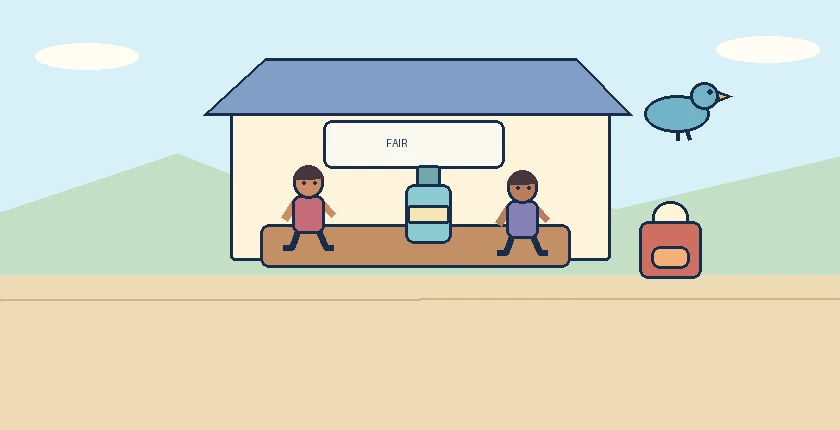
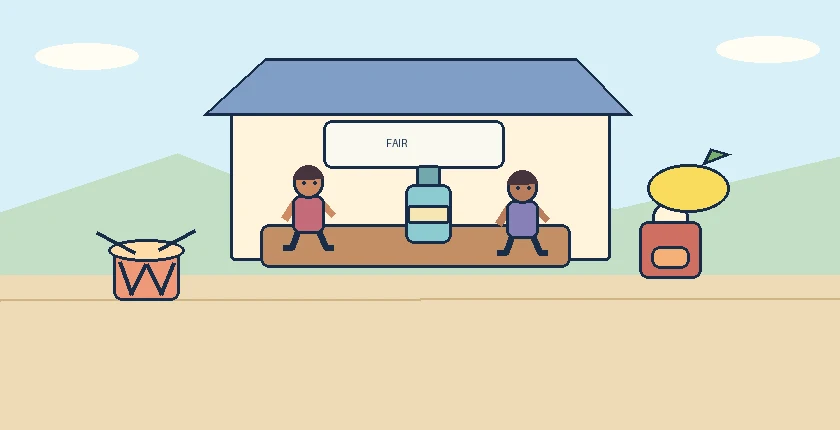
Add Movers Speaking picture tasks and classroom rubric

Changed region(s): [[0.1238, 0.5442, 0.2167, 0.7256], [0.7738, 0.3326, 0.8667, 0.514], [0.7429, 0.1814, 0.8667, 0.3326]]

diff --git a/tests/browser/movers-hosted.spec.ts b/tests/browser/movers-hosted.spec.ts
@@ -1,0 +1,128 @@
+import { expect, test, type Page } from "@playwright/test";
+import { readFile } from "node:fs/promises";
+
+test.use({ trace: "off" });
+
+async function signIn(page: Page, second = false) {
+  await page.goto("/login", { waitUntil: "networkidle" });
+  await page.getByLabel("Email").fill((second ? process.env.E2E_OTHER_EMAIL : process.env.E2E_TEACHER_EMAIL)!);
+  await page.getByLabel("Mật khẩu").fill((second ? process.env.E2E_OTHER_PASSWORD : process.env.E2E_TEACHER_PASSWORD)!);
+  await page.getByRole("button", { name: "Đăng nhập", exact: true }).click();
+  await expect(page.getByRole("heading", { name: "Hoạt động của tôi" })).toBeVisible();
+}
+
+const button = (page: Page, name: string) => page.getByRole("button", { name, exact: true });
+
+for (const paper of ["listening", "reading", "speaking"]) {
+  test(`QuizStudy Movers ${paper} saves assignment snapshots and results`, async ({ page, browser }, info) => {
+    test.skip(info.project.name !== "desktop" || !process.env.E2E_TEACHER_EMAIL || !process.env.E2E_OTHER_EMAIL, "QuizStudy QA teachers required");
+    test.setTimeout(150000);
+    await signIn(page);
+    await page.goto(`/samples/cambridge-movers/${paper}`);
+    await button(page, "Lưu vào thư viện giáo viên").click();
+    await expect(button(page, "Tạo link giao bài")).toBeVisible();
+    const source = page.url();
+    if (paper === "speaking") {
+      await page.getByText("Hướng dẫn Speaking dành cho giáo viên").click();
+      await expect(page.getByText(/Contrast the roof colour/)).toBeVisible();
+    }
+    await page.getByLabel(/Cho học sinh xem câu sai/).check();
+    await button(page, "Tạo link giao bài").click();
+    await expect(page.getByLabel("Link chia sẻ")).toBeVisible();
+    const url = await page.getByLabel("Link chia sẻ").inputValue();
+    const assignment = page.url();
+    const student = await browser.newPage();
+    const outsider = await browser.newPage();
+    const nickname = "Movers Synthetic QA";
+    try {
+      if (paper !== "speaking") {
+        await page.goto(new URL("?edit=1", source).toString(), { waitUntil: "networkidle" });
+        if (paper === "listening") await page.getByLabel("Câu hỏi hoặc gợi ý").first().fill("Edited source prompt");
+        else await page.getByLabel("Tên tiêu chí").first().fill("Edited source criterion");
+        await button(page, "Xuất bản").click();
+        await expect(page.getByText("Đã lưu thay đổi.", { exact: true })).toBeVisible();
+      }
+      await student.clock.install();
+      await student.goto(url);
+      const start = async () => {
+        await student.getByLabel("Biệt danh").fill(nickname);
+        await button(student, "Bắt đầu").click();
+        await expect(student.getByRole("timer")).toBeVisible();
+      };
+      await start();
+      if (paper === "listening") {
+        await expect(student.getByRole("heading", { name: "Nora" })).toBeVisible();
+        await button(student, "Person 2").click();
+        await button(student, "Nghe đoạn hội thoại").click();
+        await expect(student.getByText("Lượt nghe 1/2")).toBeVisible();
+        await student.reload();
+        await start();
+        await expect(button(student, "Person 2")).toHaveAttribute("aria-pressed", "true");
+        await expect(student.getByText("Lượt nghe 1/2")).toBeVisible();
+        await student.clock.fastForward(25 * 60 * 1000 + 1000);
+        await expect(student.getByText("1/25 điểm", { exact: true })).toBeVisible();
+      } else if (paper === "reading") {
+        await student.getByLabel("Your answer").fill("helmet");
+        await button(student, "Tiếp theo").click();
+        await student.getByLabel("Your answer").fill("wrong");
+        for (let i = 1; i < 33; i++) await button(student, "Tiếp theo").click();
+        await student.getByLabel("Your answer").fill("The person in the green shirt is standing on the left.");
+        await button(student, "Tiếp theo").click();
+        await student.getByLabel("Your answer").fill("There are three giraffes beside the stall.");
+        await button(student, "Nộp bài").click();
+        await expect(student.getByText("1/33 điểm tự động", { exact: true })).toBeVisible();
+      } else {
+        await expect(student.locator(".mover-scenes figure")).toHaveCount(2);
+        await expect(student.getByText(/Contrast the roof colour/)).toHaveCount(0);
+        await expect(student.getByRole("button", { name: /microphone|ghi âm/ })).toHaveCount(0);
+        for (let i = 0; i < 3; i++) await button(student, "Tiếp theo").click();
+        await button(student, "Nộp bài").click();
+      }
+      await expect(student.getByText("Bài làm đã được lưu.")).toBeVisible();
+      await page.goto(assignment);
+      const result = page.getByRole("link", { name: nickname });
+      await expect(result).toBeVisible();
+      const resultUrl = new URL((await result.getAttribute("href"))!, page.url()).toString();
+      if (paper !== "listening") {
+        await student.getByRole("link", { name: /Xem nhận xét/ }).click();
+        await expect(student.getByText(/Đã nộp bài/)).toBeVisible();
+        expect((await outsider.goto(student.url()))?.status()).toBe(404);
+        await result.click();
+        const rubric = page.getByRole("spinbutton");
+        await expect(rubric).toHaveCount(paper === "reading" ? 2 : 5);
+        if (paper === "reading") {
+          await expect(page.getByText("The person in the green shirt is standing on the left.", { exact: true })).toBeVisible();
+          await expect(page.getByLabel("Điểm Part 6, câu 5 / 1")).toBeVisible();
+          await rubric.nth(0).fill("1");
+          await rubric.nth(1).fill("0");
+        } else {
+          for (const input of await rubric.all()) await input.fill("3");
+        }
+        const feedback = "Synthetic Movers QA feedback.";
+        await page.getByLabel("Nhận xét của giáo viên").fill(feedback);
+        await button(page, "Công bố kết quả").click();
+        await expect(page.getByText(/Đã công bố/)).toBeVisible();
+        await student.reload();
+        await expect(student.getByText(feedback)).toBeVisible();
+        await expect(student.getByRole("heading", { name: paper === "reading" ? "2/35 điểm" : "15/20 điểm" })).toBeVisible();
+      }
+      await signIn(outsider, true);
+      expect((await outsider.goto(resultUrl))?.status()).toBe(404);
+      expect((await outsider.goto(new URL("/results/export?assignment=" + new URL(assignment).pathname.split("/").at(-1), assignment).toString()))?.status()).toBe(404);
+      await page.goto(assignment);
+      const exportReady = page.waitForEvent("download");
+      await page.getByRole("link", { name: "Tải CSV" }).click();
+      const csv = await readFile((await (await exportReady).path())!, "utf8");
+      expect(csv).toContain(nickname);
+      if (paper === "reading") expect(csv).toMatch(/Movers Synthetic QA[^\r\n]*2[^\r\n]*35[^\r\n]*published/);
+      if (paper === "speaking") expect(csv).toMatch(/Movers Synthetic QA[^\r\n]*15[^\r\n]*20[^\r\n]*published/);
+    } finally {
+      await student.close();
+      await outsider.close();
+      if (!page.isClosed()) {
+        await page.goto(assignment);
+        await button(page, "Đóng bài tập").click();
+      }
+    }
+  });
+}

diff --git a/lib/movers-paper.ts b/lib/movers-paper.ts
@@ -1,6 +1,6 @@
 import type { Item, Template } from "./game";
 import { cambridgeLevels, moverPartNames, starterPapers, cambridgeCounts, type CambridgePart, type StarterPaper } from "./games/starters";
-import type { Rubric } from "./games/productive";
+import { defaultRubric, type Rubric } from "./games/productive";
 
 const image = (name: string) => `/illustrations/movers/${name}.webp`;
 const cards = (names: string[], labels = names) => names.map((name, i) => ({ value: labels[i], image: image(name) }));
@@ -115,14 +115,42 @@ const writingRubric: Rubric = [
   { title: "Part 6, câu 5", description: "Một câu hoàn chỉnh, dễ hiểu và đúng với một người trong tranh. Nếu bỏ trống, cho 0 điểm.", max: 1 },
   { title: "Part 6, câu 6", description: "Một câu hoàn chỉnh, dễ hiểu và đúng với một vật bên cạnh gian hàng. Nếu bỏ trống, cho 0 điểm.", max: 1 },
 ];
-const papers: Partial<Record<StarterPaper, Question[][]>> = { listening, reading };
+const speaking: Question[][] = [
+  [{
+    prompt: "Look at both pictures. Tell your teacher four things that are different.",
+    config: { visuals: [image("stall-a"), image("stall-b")],
+      guide: "Dùng ‘In the first picture …, but in the second picture …’ để mô tả bốn điểm khác nhau.",
+      teacher: "Greet the learner and ask for a first name and age as role-play. Ask them to describe four differences between the two stalls. Contrast the roof colour, the shirt of the person on the left, the basket and bag, and the camera and bottle on the table. Give another prompt if the learner needs help getting started." },
+  }],
+  [{
+    prompt: "A surprise at the fair · Listen to the beginning, then tell the rest of Leo's story.",
+    config: { visuals: ["story-notice", "story-find", "story-help", "story-celebrate"].map(image),
+      guide: "Nghe giáo viên kể khung đầu. Sau đó dùng ‘then’, ‘after that’ và ‘in the end’ để kể ba khung còn lại.",
+      teacher: "Show all four pictures. Start: This is Leo. On Saturday he saw a notice about the school fair and decided to go. Now tell me about the other pictures. In picture 2 Leo finds a red bag near the bench. In picture 3 he returns it to the photo stall. In picture 4 he stays for the music. Accept sensible accounts that fit the pictures." },
+  }],
+  [{
+    prompt: "In each set, choose the different picture. Tell your teacher why.",
+    config: { groups: [
+      ["pear", "lemon", "scarf", "sandwich"], ["rabbit", "umbrella", "bird", "fish"],
+      ["skates", "shoe", "helmet", "camera"], ["flower", "torch", "camera", "clock"],
+    ].map(group => group.map(image)),
+    guide: "Chọn hình khác trong mỗi nhóm rồi giải thích bằng ‘These are all …, but this one …’. Có thể có nhiều cách giải thích hợp lý.",
+    teacher: "Ask which picture is different and why, for each of the four sets. Possible groupings: food versus scarf; animals versus umbrella; things you wear versus camera; devices versus flower. Accept a different grouping if the learner explains it clearly." },
+  }],
+  [{
+    prompt: "Talk to your teacher about school, weekends, and things you like doing.",
+    config: { guide: "Trả lời trực tiếp bằng một câu ngắn, rồi thêm một chi tiết nếu em có thể.",
+      teacher: "Ask: What do you like doing after school? Who do you play with at weekends? What did you do last Saturday? Tell me about a game you enjoy. Use invented names and details for demonstrations. The app does not ask the learner to type personal answers." },
+  }],
+];
+const papers: Record<StarterPaper, Question[][]> = { listening, reading, speaking };
 export function moverPaper(paper: StarterPaper, part?: number) {
   const rows = papers[paper];
   const mock = part === undefined;
   if (!rows || (!mock && (!Number.isInteger(part) || !rows[part - 1]))) return null;
   const indices = mock ? rows.map((_, index) => index) : [part - 1];
   const template: Template = paper === "speaking" ? "speaking" : "type-answer";
-  const rubric = paper === "reading" && (mock || part === 6) ? writingRubric : undefined;
+  const rubric = paper === "speaking" ? defaultRubric("Speaking") : paper === "reading" && (mock || part === 6) ? writingRubric : undefined;
   const items: Item[] = indices.flatMap(index => rows[index].map(({ prompt, answer, alternatives, config, clip }, question) => ({
     version: 2, prompt, answers: answer ? [answer] : [], options: [], alternatives,
     english: { level: cambridgeLevels.movers, skill: paper === "listening" ? "Listening" : paper === "reading" ? "Reading" : "Speaking" },

diff --git a/tests/browser/movers.spec.ts b/tests/browser/movers.spec.ts
@@ -62,6 +62,75 @@ async function next(page: Page, remaining: number) {
   await expect(page.getByRole("heading", { name: "Hoàn thành!" })).toBeVisible();
 }
 
+test("Movers library links all fifteen practice parts and three mocks", async ({ page }) => {
+  await page.goto(root);
+  await expect(page.locator(".starter-paper-grid li a")).toHaveCount(15);
+  await expect(page.getByRole("link", { name: /^Thi thử/ })).toHaveCount(3);
+  expect((await page.goto(root + "/listening?part=6"))?.status()).toBe(404);
+});
+
+for (const part of [1, 2, 3, 4]) {
+  test(`Movers Speaking Part ${part}`, async ({ page }) => {
+    await start(page, "speaking?part=" + part);
+    await expect(page.getByText("Gợi ý luyện tập")).toBeVisible();
+    if (part === 1 || part === 2) await expect(page.locator(".mover-scenes figure")).toHaveCount(part === 1 ? 2 : 4);
+    if (part === 3) {
+      for (let group = 1; group <= 4; group++) {
+        const cards = page.getByRole("group", { name: "Set " + group }).getByRole("button");
+        await expect(cards).toHaveCount(4);
+        await cards.nth(1).focus();
+        await page.keyboard.press("Space");
+        await expect(cards.nth(1)).toHaveAttribute("aria-pressed", "true");
+      }
+    }
+    await expect(page.locator("audio, .starter-sheet input, .starter-sheet textarea")).toHaveCount(0);
+    await expect(page.getByRole("button", { name: /microphone|ghi âm/ })).toHaveCount(0);
+    await next(page, 1);
+    await expect(page.locator(".game-completion strong")).toHaveCount(0);
+  });
+}
+
+test("Movers mock timers, two audio plays, and routes between speaking parts", async ({ page }) => {
+  await page.clock.install();
+  await start(page, "listening");
+  await expect(page.getByRole("timer")).toHaveText(/^(?:25:00|24:59)$/);
+  await expect(page.getByText("Gợi ý luyện tập")).toHaveCount(0);
+  for (const play of [1, 2]) {
+    await button(page, "Nghe đoạn hội thoại").click();
+    await expect(page.getByText(`Lượt nghe ${play}/2`)).toBeVisible();
+    await page.locator("audio").evaluate(async element => {
+      const audio = element as HTMLAudioElement;
+      if (!Number.isFinite(audio.duration)) await new Promise(resolve => audio.addEventListener("loadedmetadata", resolve, { once: true }));
+      audio.currentTime = audio.duration - .05;
+    });
+    await expect(button(page, "Nghe đoạn hội thoại")).toBeVisible();
+  }
+  await button(page, "Person 2").click();
+  await button(page, "Tiếp theo").click();
+  await expect(button(page, "Nghe đoạn hội thoại")).toBeDisabled();
+  await button(page, "Câu trước").click();
+  await expect(button(page, "Person 2")).toHaveAttribute("aria-pressed", "true");
+  await page.clock.fastForward(25 * 60 * 1000 + 1000);
+  await expect(page.getByText("1/25 điểm", { exact: true })).toBeVisible();
+  await start(page, "reading");
+  await expect(page.getByRole("timer")).toHaveText(/^(?:30:00|29:59)$/);
+  await page.getByLabel("Your answer").fill("helmet");
+  await page.clock.fastForward(30 * 60 * 1000 + 1000);
+  await expect(page.getByText("1/33 điểm tự động", { exact: true })).toBeVisible();
+  await start(page, "speaking");
+  await expect(page.getByRole("timer")).toHaveText(/^(?:7:00|6:59)$/);
+  await expect(page.getByText("Gợi ý luyện tập")).toHaveCount(0);
+  await button(page, "Tiếp theo").click();
+  await button(page, "Tiếp theo").click();
+  const choice = page.getByRole("group", { name: "Set 1" }).getByRole("button").nth(2);
+  await choice.click();
+  await button(page, "Tiếp theo").click();
+  await button(page, "Câu trước").click();
+  await expect(choice).toHaveAttribute("aria-pressed", "true");
+  await button(page, "Tiếp theo").click();
+  await next(page, 1);
+});
+
 for (const part of [1, 2, 3, 4, 5]) {
   test(`Movers Listening Part ${part}`, async ({ page }) => {
     await start(page, "listening?part=" + part);

diff --git a/components/games/StartersRound.tsx b/components/games/StartersRound.tsx
@@ -8,7 +8,7 @@ import type { RoundProps } from "./LegacyRound";
 export default function StartersRound({ items, index, turn, answers, assets, setAnswers, next, busy, bindFocus }: RoundProps) {
   const item = items[index];
   const config = item.practice!.starters!;
-  const { paper, part, scene, cards, targets, letters, passage, guide, example, fields, lead, choices, copyWord, open, sign } = config;
+  const { paper, part, scene, cards, targets, letters, passage, guide, example, fields, lead, choices, copyWord, open, sign, visuals, groups } = config;
   const movers = config.level === "movers";
   const match = paper === "listening" && part === 1;
   const colouring = paper === "listening" && part === (movers ? 5 : 4);
@@ -37,7 +37,7 @@ export default function StartersRound({ items, index, turn, answers, assets, set
   return <form className="starter-sheet" lang="en" onSubmit={event => {
     event.preventDefault();
     // Card placement is a teaching aid. The teacher assesses the spoken work.
-    next(!speaking && value.trim() ? [value.trim()] : []);
+    next(groups ? answers[index] ?? [] : !speaking && value.trim() ? [value.trim()] : []);
   }}>
     <div>
       <p className="starter-label" lang="vi">Part {part} · {heading}</p>
@@ -47,6 +47,22 @@ export default function StartersRound({ items, index, turn, answers, assets, set
       <summary>{config.mock ? "Ví dụ mẫu" : "Gợi ý luyện tập"}</summary><p>{guide ?? example}</p>
     </details>}
     {speaking && <p className="starter-guide" lang="vi">Làm phần này cùng giáo viên. Em có thể trả lời trực tiếp bằng lời.</p>}
+    {visuals && <div className="mover-scenes">
+      {visuals.map((src, i) => <figure key={src}>
+        <LessonMedia media={{ image: src }} assets={assets} label={`Fair scene ${i + 1}`}/>
+        <figcaption>{visuals.length === 2 ? `Picture ${"AB"[i]}` : `Picture ${i + 1}`}</figcaption>
+      </figure>)}
+    </div>}
+    {groups?.map((group, i) => <fieldset key={i} className="mover-odd">
+      <legend>Set {i + 1}</legend>
+      <div className="starter-cards">{group.map((src, n) => <button key={src} className="starter-card" type="button"
+        aria-pressed={answers[index]?.[i] === String(n)} onClick={() => setAnswers(old => ({
+          ...old, [index]: groups.map((_, groupIndex) => groupIndex === i ? String(n) : old[index]?.[groupIndex] ?? ""),
+        }))}>
+        <LessonMedia media={{ image: src }} assets={assets} label={src.split("/").at(-1)!.replace(".webp", "")}/>
+        <span>{"ABCD"[n]}</span>
+      </button>)}</div>
+    </fieldset>)}
     {passage && <div className="starter-passage">{passage}</div>}
     {fields && <dl className="mover-booking">{fields.map((name, i) => <div key={name} aria-current={section[i] === index ? "step" : undefined}>
       <dt>{name}</dt><dd>{answers[section[i]]?.[0] || "—"}</dd>

diff --git a/app/starters.css b/app/starters.css
@@ -90,6 +90,13 @@
 .mover-sign input { width: 100%; height: 100%; min-height: 2rem; padding: .1rem .2rem; text-align: center; font-size: inherit; }
 .starter-pin.mover-colour-pin { mix-blend-mode: multiply; color: #192d49; }
 .starter-choice-letter { display: inline-block; margin-right: .45rem; color: var(--starter-coral); font-weight: 750; }
+.mover-scenes { display: grid; grid-template-columns: repeat(2, minmax(0, 1fr)); gap: .65rem; }
+.mover-scenes figure { display: grid; margin: 0; padding: .35rem; background: var(--starter-aqua); border-radius: .7rem; text-align: center; }
+.mover-scenes img { display: block; width: 100%; border-radius: .45rem; }
+.mover-scenes figcaption { padding: .3rem; font-weight: 720; }
+.mover-odd { margin: 0; min-width: 0; border: 1px solid #bfdad6; border-radius: .65rem; padding: .5rem; }
+.mover-odd legend { padding: 0 .35rem; font-weight: 750; }
+.mover-odd .starter-cards { grid-template-columns: repeat(4, minmax(0, 1fr)); }
 @media (max-width: 540px) {
   .starter-cards { grid-template-columns: repeat(3, minmax(0, 1fr)); }
   .starter-import { margin: .75rem; }

diff --git a/tests/movers.test.ts b/tests/movers.test.ts
@@ -48,3 +48,13 @@ test("Movers Reading & Writing holds 33 automatic marks and two open questions f
   snapshot[33].answers = ["Any sentence"];
   expect(contentSchema(paper.template).safeParse(snapshot).success).toBe(false);
 });
+
+test("Movers Speaking uses two comparison pictures, four story scenes and four sets of four images", () => {
+  checkPaper("speaking");
+  const { items } = moverPaper("speaking")!;
+  expect(items[0].practice?.starters?.visuals).toHaveLength(2);
+  expect(items[1].practice?.starters?.visuals).toHaveLength(4);
+  expect(items[2].practice?.starters?.groups?.map(group => group.length)).toEqual([4, 4, 4, 4]);
+  expect(items[0].practice?.production?.rubric).toHaveLength(5);
+  expect(items.every(item => item.practice?.starters?.teacher)).toBe(true);
+});
